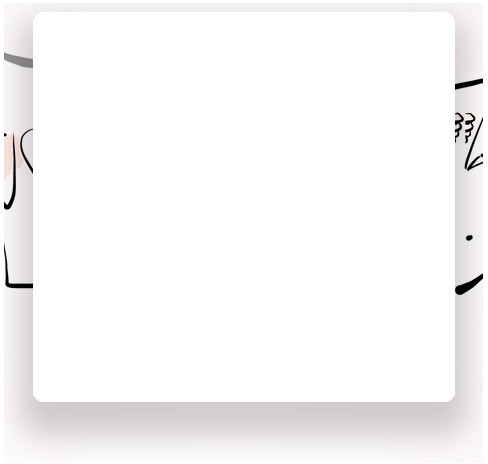
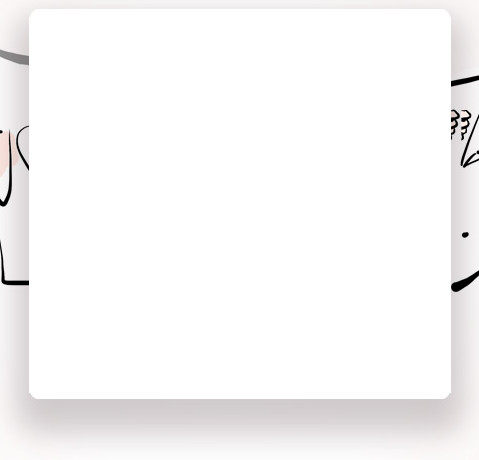
process

Changed region(s): [[0.0, 0.0304, 0.0877, 0.8826], [0.9061, 0.0609, 1.0, 0.8522], [0.9061, 0.8522, 0.9353, 0.8826]]

diff --git a/public/css/style.css b/public/css/style.css
@@ -8,6 +8,136 @@ body {
 	color: #333333; 
 }
 
-.wrapper { background: url("../img/bg.jpg") no-repeat #e2c6c2; min-width: 768px; min-height: 600px }
-.logo { position: relative; top: 38px; left: 348px; heifght: 128px; width: 312px; }
-.window { position: relative; background: url("../img/window.jpg") #fff; top: 170px; left: 260px}
+.wrapper { background: url("../img/bg.jpg") no-repeat #e2c6c2; min-width: 768px; height: 1000px; overflow-y: hidden; }
+.logo { position: relative; top: 38px; left: 348px; height: 128px; width: 312px; padding: 0; margin:0 }
+.window { position: relative; background: url("../img/window.jpg") #fff; top: 42px; left: 260px; height: 460px; width: 479px;}
+
+#chat { position: relative; top: 20px; left: 30px; width: 420px; height: 350px}
+
+#messages {
+  height: 335px;
+  background: #fff;
+}
+#messages em {
+  text-shadow: 0 1px 0 #fff;
+  color: #999;
+}
+#messages p {
+  padding: 0;
+  margin: 0;
+  font: 12px Helvetica, Arial;
+  padding: 5px 10px;
+}
+#messages p b {
+  display: inline-block;
+  padding-right: 10px;
+}
+#messages p:nth-child(even) {
+  background: #fafafa;
+}
+#messages #lines {
+  height: 355px;
+  overflow: auto;
+  overflow-x: hidden;
+  overflow-y: auto;
+}
+#messages #lines::-webkit-scrollbar {
+  width: 6px;
+  height: 6px;
+}
+#messages #lines::-webkit-scrollbar-button:start:decrement,
+#messages #lines ::-webkit-scrollbar-button:end:increment {
+  display: block;
+  height: 10px;
+}
+#messages #lines::-webkit-scrollbar-button:vertical:increment {
+  background-color: #fff;
+}
+#messages #lines::-webkit-scrollbar-track-piece {
+  background-color: #fff;
+  -webkit-border-radius: 3px;
+}
+#messages #lines::-webkit-scrollbar-thumb:vertical {
+  height: 50px;
+  background-color: #ccc;
+  -webkit-border-radius: 3px;
+}
+#messages #lines::-webkit-scrollbar-thumb:horizontal {
+  width: 50px;
+  background-color: #fff;
+  -webkit-border-radius: 3px;
+}
+
+#send-message {
+  background: #fff;
+  position: relative;
+}
+#send-message input {
+  border-left: 1px dotted;
+  border-top: 1px dotted;
+  border-right: none;
+  border-bottom: none;
+  height: 30px;
+  padding: 0 10px;
+  line-height: 30px;
+  vertical-align: middle;
+  width: 400px;
+}
+#send-message input:focus {
+  outline: 0;
+}
+#send-message button {
+  position: absolute;
+  top: 5px;
+  right: 5px;
+}
+button {
+  margin: 0;
+  -webkit-user-select: none;
+  -moz-user-select: none;
+  user-select: none;
+  display: inline-block;
+  text-decoration: none;
+  background: #43a1f7;
+  background: -webkit-gradient(linear, left top, left bottom, color-stop(0, #43a1f7), color-stop(1, #377ad0));
+  background: -webkit-linear-gradient(top, #43a1f7 0%, #377ad0 100%);
+  background: -moz-linear-gradient(top, #43a1f7 0%, #377ad0 100%);
+  background: linear-gradient(top, #43a1f7 0%, #377ad0 100%);
+  border: 1px solid #2e70c4;
+  -webkit-border-radius: 16px;
+  -moz-border-radius: 16px;
+  border-radius: 16px;
+  color: #fff;
+  font-family: "lucida grande", sans-serif;
+  font-size: 11px;
+  font-weight: normal;
+  line-height: 1;
+  padding: 3px 10px 5px 10px;
+  text-align: center;
+  text-shadow: 0 -1px 1px #2d6dc0;
+}
+button:hover,
+button.hover {
+  background: darker;
+  background: -webkit-gradient(linear, left top, left bottom, color-stop(0, #43a1f7), color-stop(1, #2e70c4));
+  background: -webkit-linear-gradient(top, #43a1f7 0%, #2e70c4 100%);
+  background: -moz-linear-gradient(top, #43a1f7 0%, #2e70c4 100%);
+  background: linear-gradient(top, #43a1f7 0%, #2e70c4 100%);
+  border: 1px solid #2e70c4;
+  cursor: pointer;
+  text-shadow: 0 -1px 1px #2c6bbb;
+}
+button:active,
+button.active {
+  background: #2e70c4;
+  border: 1px solid #2e70c4;
+  border-bottom: 1px solid #2861aa;
+  text-shadow: 0 -1px 1px #2b67b5;
+}
+button:focus,
+button.focus {
+  outline: none;
+  -webkit-box-shadow: 0 1px 0 0 rgba(255,255,255,0.4), 0 0 4px 0 #377ad0;
+  -moz-box-shadow: 0 1px 0 0 rgba(255,255,255,0.4), 0 0 4px 0 #377ad0;
+  box-shadow: 0 1px 0 0 rgba(255,255,255,0.4), 0 0 4px 0 #377ad0;
+}
